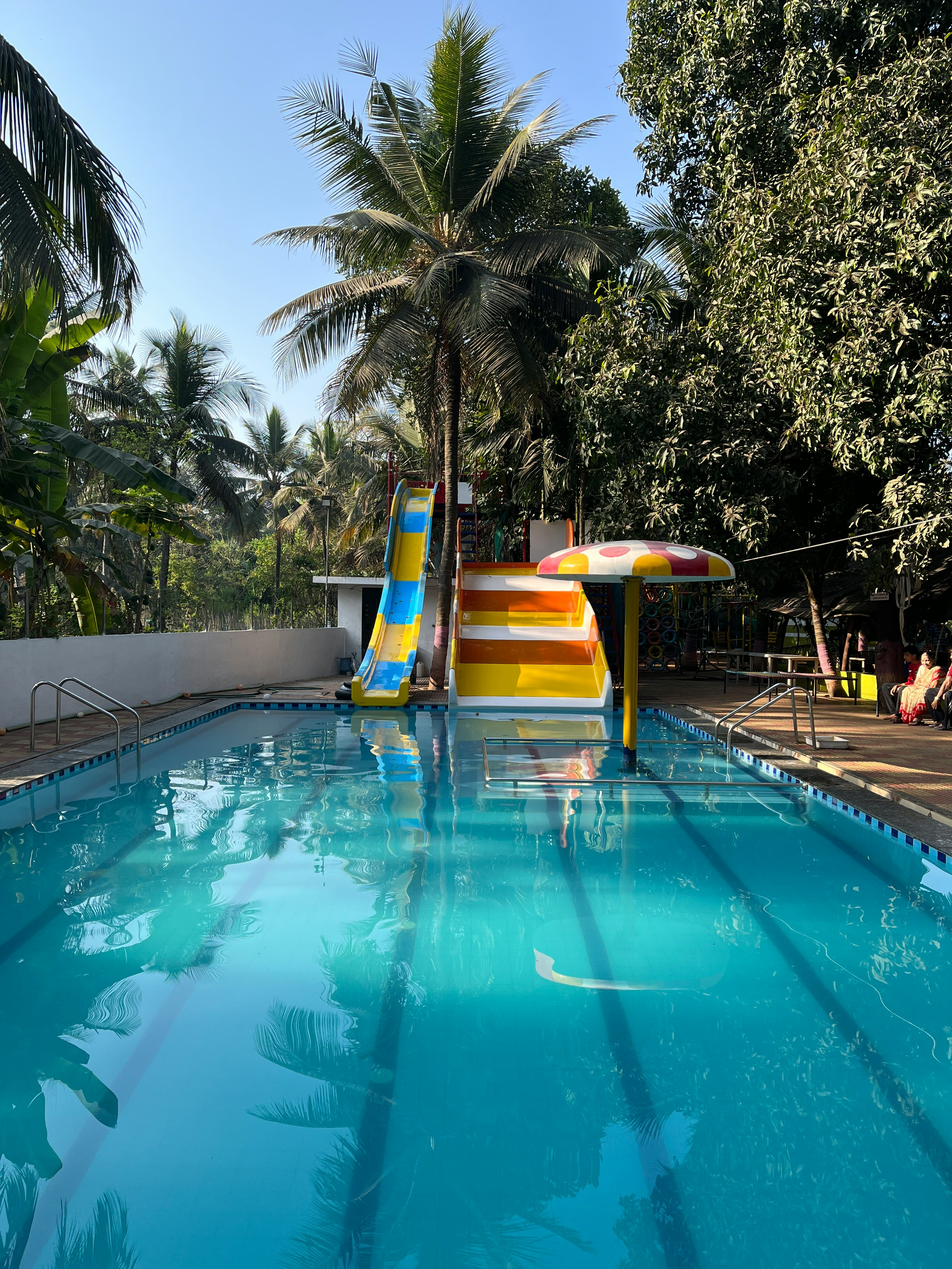
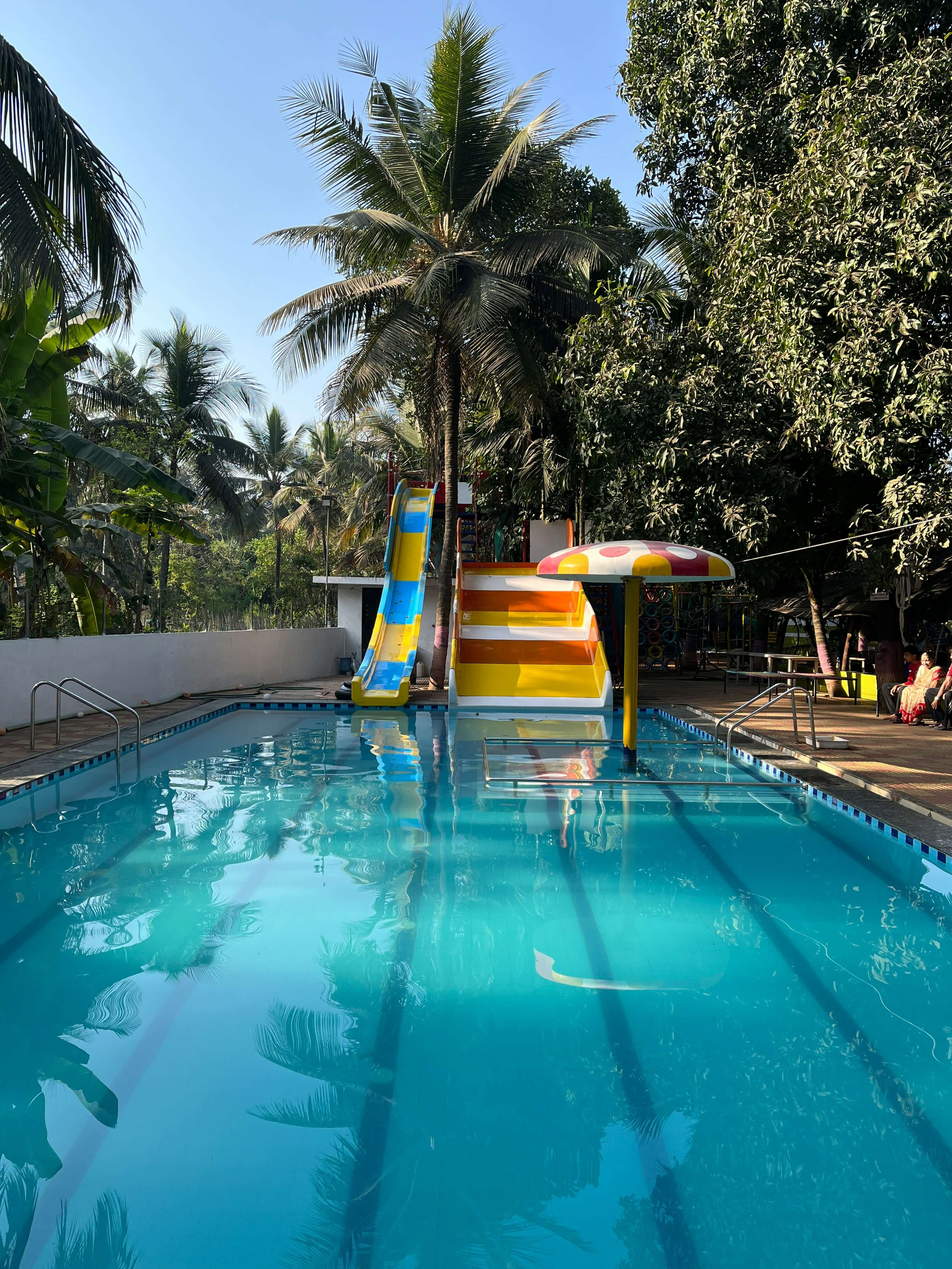
compressed hero images

diff --git a/src/pages/about/components/team-section/TeamSection.tsx b/src/pages/about/components/team-section/TeamSection.tsx
@@ -1,24 +1,15 @@
-import ArrowRightIcon from "@/assets/svgs/actions/ArrowRightIcon";
-import ArrowLeftIcon from "@/assets/svgs/actions/ArrowLeftIcon";
 import SectionContainer from "@/components/section/SectionContainer";
 import SectionTitle from "@/components/section/SectionTitle";
-import Button from "@/components/UI-primitives/Button";
 import { teamMembers } from "@/data/teamMembers";
 import MemberCard from "./components/MemberCard";
 
 const TeamSection = () => {
   return (
-    <SectionContainer className="flex flex-col gap-y-2.5">
-      <div className="flex justify-between items-center">
-        <SectionTitle caption="Our Team">
-          Our Awesome Team
-          <br /> Members
-        </SectionTitle>
-        <div className="flex gap-x-4">
-          <Button variant="outline" leftIcon={<ArrowLeftIcon />} />
-          <Button variant="outline" rightIcon={<ArrowRightIcon />} />
-        </div>
-      </div>
+    <SectionContainer className="flex flex-col items-center gap-y-2.5">
+      <SectionTitle caption="Our Team" className="text-center">
+        Our Awesome Team
+        <br /> Members
+      </SectionTitle>
       <div className="p-2 flex flex-wrap justify-center gap-6">
         {teamMembers.map((teamMember, index) => (
           <MemberCard key={index} image={teamMember.image} member={teamMember.member} role={teamMember.role} />

diff --git a/src/components/fixed-action-links/FixedActionLinks.tsx b/src/components/fixed-action-links/FixedActionLinks.tsx
@@ -6,7 +6,7 @@ import ActionWhatsappIcon from "./components/svg/ActionWhatsappIcon";
 
 const FixedActionLinks = () => {
   return (
-    <nav className="bg-primary lg:max-w-[500px] p-2 bottom-0 divide-accent divide-x left-0 right-0 fixed z-40 flex gap-x-2 justify-around items-center">
+    <nav className="bg-primary border border-background lg:max-w-[500px] p-2 bottom-0 divide-accent divide-x left-0 right-0 fixed z-40 flex gap-x-2 justify-around items-center">
       <ActionLink to={info.email} icon={<ActionEmailIcon />}>
         Email Us
       </ActionLink>
